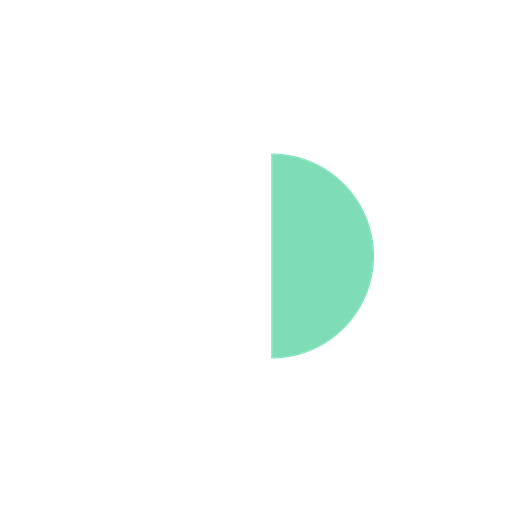
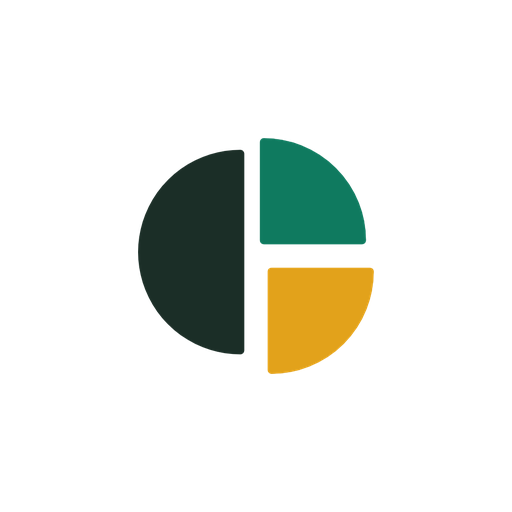
Refactor code structure for improved readability and maintainability

Changed region(s): [[0.25, 0.25, 0.75, 0.75]]

diff --git a/mobile/src/ui/Logo.tsx b/mobile/src/ui/Logo.tsx
@@ -1,35 +1,20 @@
-import { View } from 'react-native';
-import Svg, { Path, Rect } from 'react-native-svg';
+import { Image, View } from 'react-native';
 
-import { Text } from '@/components/ui/text';
 import { cn } from '@/lib/utils';
 
-import { colors } from './theme';
-
-/**
- * Hati's mark: a coin split in two ("hati" means to split), white and mint, on a deep forest
- * tile. The same geometry is drawn into the app icons (mobile/assets, made by
- * scripts/make-icons.py), so change both together.
+/*
+ * Hati's logo: a circle split into three shares (ink, green, gold). The images are cut out of
+ * mobile/assets/app-icon.png and primary-logo.png by mobile/scripts/make-icons.py, which also
+ * makes the app icons; replace those two PNGs and rerun the script to change the logo everywhere.
  */
-export function LogoMark({ size = 56 }: { size?: number }) {
-  return (
-    <Svg width={size} height={size} viewBox="0 0 100 100" accessibilityElementsHidden importantForAccessibility="no">
-      <Rect width={100} height={100} rx={28} fill={colors.ink} />
-      {/* Left half of the coin, nudged left; right half nudged right: the split. */}
-      <Path d="M46 24 A26 26 0 0 0 46 76 Z" fill={colors.onInk} />
-      <Path d="M54 24 A26 26 0 0 1 54 76 Z" fill={colors.onInkGood} />
-    </Svg>
-  );
-}
+const WORDMARK = require('../../assets/logo-wordmark.png');
+const WORDMARK_RATIO = 399 / 144; // width / height of logo-wordmark.png
 
-/** The mark with the name next to it, for headers (intro, sign in). Read as "Hati". */
+/** The mark with "Hati" next to it, `size` tall, for headers. Read as "Hati". */
 export function Logo({ size = 32, className }: { size?: number; className?: string }) {
   return (
-    <View accessible accessibilityRole="image" accessibilityLabel="Hati" className={cn('flex-row items-center gap-2', className)}>
-      <LogoMark size={size} />
-      <Text className="font-extrabold tracking-tight text-foreground" style={{ fontSize: Math.round(size * 0.62) }}>
-        Hati
-      </Text>
+    <View accessible accessibilityRole="image" accessibilityLabel="Hati" className={cn('self-start', className)}>
+      <Image source={WORDMARK} style={{ height: size, width: size * WORDMARK_RATIO }} resizeMode="contain" />
     </View>
   );
 }

diff --git a/mobile/src/ui/auth.tsx b/mobile/src/ui/auth.tsx
@@ -9,7 +9,7 @@ import { Text } from '@/components/ui/text';
 import { passwordChecks } from '@/lib/auth';
 
 import { Card, cx, Muted, Screen, useRevealOnFocus } from './components';
-import { LogoMark } from './Logo';
+import { Logo } from './Logo';
 import { colors } from './theme';
 
 /** Brand mark, big title and subtitle, then the form in a card, then the footer links. */
@@ -27,7 +27,7 @@ export function AuthScreen({
   return (
     <Screen>
       <View className="gap-5 pb-1 pt-4">
-        <LogoMark size={56} />
+        <Logo size={44} />
         <View className="gap-2">
           <Text role="heading" className="text-3xl font-extrabold tracking-tight">
             {title}

diff --git a/mobile/scripts/make-icons.py b/mobile/scripts/make-icons.py
@@ -1,54 +1,102 @@
-"""Draws Hati's app icons into mobile/assets from the logo geometry in src/ui/Logo.tsx.
+"""Builds Hati's app icons and in-app logo images from the two source PNGs in mobile/assets:
 
-The mark: a coin split in two (white + mint) on a deep forest tile. Run after changing it:
+    app-icon.png      1024x1024, the mark on the sage background (#EDF1EE)
+    primary-logo.png  the mark + "Hati" + tagline on the same background
+
+Run after replacing either source:
 
     backend/.venv/Scripts/python mobile/scripts/make-icons.py      (Windows)
     backend/.venv/bin/python mobile/scripts/make-icons.py          (macOS / Linux)
 
 Needs Pillow (already in backend/requirements.txt).
+
+The cut-outs (logo-*.png) are "un-matted": every pixel is matched to the nearest logo color and
+given the alpha that blends it out of the background, so edges stay smooth on any surface.
 """
 
 from pathlib import Path
 
-from PIL import Image, ImageDraw
+from PIL import Image
 
 ASSETS = Path(__file__).resolve().parent.parent / "assets"
-INK = (0x1B, 0x2E, 0x27, 255)  # colors.ink
-WHITE = (255, 255, 255, 255)  # colors.onInk
-MINT = (0x7E, 0xDD, 0xB6, 255)  # colors.onInkGood
-CLEAR = (0, 0, 0, 0)
-SS = 4  # draw 4x bigger, then shrink: smooth edges
+BG = (237, 241, 238)  # sage, colors.bg
+# The colors used in the artwork: ink, green, gold, and the tagline's grey.
+INKS = [(27, 46, 39), (15, 122, 95), (226, 162, 27), (74, 93, 85)]
 
 
-def coin(draw, size, radius, gap, left=WHITE, right=MINT):
-    """Two half discs around the centre, pulled apart by `gap` (fractions of size)."""
-    c, r, g = size / 2, radius * size, gap * size
-    draw.pieslice([c - g - r, c - r, c - g + r, c + r], 90, 270, fill=left)
-    draw.pieslice([c + g - r, c - r, c + g + r, c + r], 270, 90, fill=right)
+def unmatte(img):
+    """Background pixels become transparent; artwork keeps its color with a soft alpha edge."""
+    src = img.convert("RGB")
+    out = Image.new("RGBA", src.size)
+    cache = {}
+    pixels = []
+    for p in src.get_flattened_data() if hasattr(src, "get_flattened_data") else src.getdata():
+        if p not in cache:
+            best = (float("inf"), (0, 0, 0, 0))
+            for f in INKS:
+                d = [f[i] - BG[i] for i in range(3)]
+                v = [p[i] - BG[i] for i in range(3)]
+                a = max(0.0, min(1.0, sum(v[i] * d[i] for i in range(3)) / sum(x * x for x in d)))
+                resid = sum((p[i] - (BG[i] + a * d[i])) ** 2 for i in range(3))
+                if resid < best[0]:
+                    best = (resid, (*f, round(a * 255)))
+            cache[p] = best[1]
+        pixels.append(cache[p])
+    out.putdata(pixels)
+    return out
 
 
-def make(name, size, background, radius, gap, tile_corner=None, colors=(WHITE, MINT), mode="RGBA"):
-    big = size * SS
-    im = Image.new("RGBA", (big, big), CLEAR)
-    d = ImageDraw.Draw(im)
-    if background and tile_corner is None:
-        d.rectangle([0, 0, big, big], fill=background)
-    elif background:
-        d.rounded_rectangle([0, 0, big - 1, big - 1], radius=tile_corner * big, fill=background)
-    if radius:
-        coin(d, big, radius, gap, *colors)
-    im = im.resize((size, size), Image.LANCZOS)
-    if mode == "RGB":
-        im = im.convert("RGB")
-    im.save(ASSETS / name)
-    print("wrote", name, im.size)
+def trim(img, pad=0):
+    box = img.getchannel("A").point(lambda a: 255 if a > 8 else 0).getbbox()
+    img = img.crop(box)
+    if pad:
+        w, h = img.size
+        canvas = Image.new("RGBA", (w + 2 * pad, h + 2 * pad), (0, 0, 0, 0))
+        canvas.paste(img, (pad, pad))
+        img = canvas
+    return img
 
 
-# Same proportions as the SVG (viewBox 100): coin radius 26, halves 4 apart from the centre.
-make("icon.png", 1024, INK, 0.26, 0.04, mode="RGB")  # iOS: full square, the system rounds it
-# Android adaptive icon: the launcher crops to the middle ~66%, so the coin stays inside that.
-make("android-icon-background.png", 512, INK, 0, 0)
-make("android-icon-foreground.png", 512, None, 0.2, 0.03)
-make("android-icon-monochrome.png", 432, None, 0.2, 0.03, colors=(WHITE, WHITE))
-make("splash-icon.png", 1024, INK, 0.26, 0.04, tile_corner=0.28)
-make("favicon.png", 48, INK, 0.26, 0.04, tile_corner=0.28)
+def square(img, size, fill, scale):
+    """`img` centred on a size x size canvas, its longest side `scale` of the canvas."""
+    canvas = Image.new("RGBA", (size, size), fill)
+    w, h = img.size
+    k = size * scale / max(w, h)
+    art = img.resize((round(w * k), round(h * k)), Image.LANCZOS)
+    canvas.alpha_composite(art, ((size - art.width) // 2, (size - art.height) // 2))
+    return canvas
+
+
+def save(img, name, mode=None):
+    if mode:
+        img = img.convert(mode)
+    img.save(ASSETS / name, optimize=True)
+    print("wrote", name, img.size)
+
+
+icon_src = Image.open(ASSETS / "app-icon.png")
+logo_src = Image.open(ASSETS / "primary-logo.png")
+
+mark = trim(unmatte(icon_src))
+full = trim(unmatte(logo_src))
+# The wordmark without the tagline: clear the area under "Hati", right of the mark.
+no_tag = unmatte(logo_src)
+W, H = no_tag.size
+no_tag.paste((0, 0, 0, 0), (round(W * 0.44), round(H * 0.58), W, H))  # tagline: x > 44%, y > 58%
+wordmark = trim(no_tag)
+
+# In-app logo (src/ui/Logo.tsx): 3x a typical size, so they're sharp on every phone.
+save(square(mark, 288, (0, 0, 0, 0), 1.0), "logo-mark.png")
+save(wordmark.resize((round(wordmark.width * 144 / wordmark.height), 144), Image.LANCZOS), "logo-wordmark.png")
+save(full.resize((round(full.width * 240 / full.height), 240), Image.LANCZOS), "logo-full.png")
+
+# App icons.
+save(square(mark, 1024, (*BG, 255), 0.56), "icon.png", "RGB")  # iOS rounds the corners itself
+# Android adaptive icon: the launcher shows roughly the middle 66%, so the mark stays inside it.
+save(Image.new("RGBA", (512, 512), (*BG, 255)), "android-icon-background.png")
+save(square(mark, 512, (0, 0, 0, 0), 0.46), "android-icon-foreground.png")
+mono = square(mark, 432, (0, 0, 0, 0), 0.46)
+mono.putdata([(255, 255, 255, px[3]) for px in mono.getdata()])
+save(mono, "android-icon-monochrome.png")
+save(square(mark, 1024, (0, 0, 0, 0), 0.6), "splash-icon.png")
+save(square(mark, 48, (*BG, 255), 0.7), "favicon.png")

diff --git a/CLAUDE.md b/CLAUDE.md
@@ -47,7 +47,7 @@ The phone's SQLite database is the source of truth for the UI. Screens never cal
 
 ### Navigation
 
-`src/app/(tabs)/` holds the four main screens behind a light floating tab bar (`src/ui/FloatingTabBar.tsx`, icons only, with a Reanimated pill that slides to the current tab and a raised + button in its middle that adds an expense from any tab (drawn inside a taller container, not overflowing the bar, because Android ignores taps outside a view's parent) via `src/ui/useAddExpense.ts` and `app/choose-budget.tsx`): Home (`index`, the dashboard: getting-started checklist, credit overview, `WeekChart`, budgets, upcoming events, recent expenses), Expenses, Events and Profile. With no token, the tabs layout redirects to `/onboarding` (three intro slides, shown once per phone; the flag is in SecureStore via `lib/onboarding.ts`, so sign-out doesn't reset it) or to `/login`. Tab screens have no navigation header. They use `<Screen tab>` (safe-area padding plus `TAB_BAR_SPACE` so the bar never covers content) and `<TabHeader>`. Transitions: tabs `animation: 'shift'`, pushed screens `'ios_from_right'`, creation modals `'slide_from_bottom'`, intro/sign-in/home `'fade'`; all become `'none'` when Reanimated's `useReducedMotion()` is true. Expenses and Events show every budget and take `?group=<id>` as a filter; the budget page links to them with `router.navigate({ pathname: '/expenses', params: { group: id } })`. New budgets are created in `app/new-budget.tsx` (a native `formSheet`, like `app/new-event.tsx`: both use the `sheet` options in the root layout, detents `[0.8, 1]`, `sheetCornerRadius: 20`, and no navigation header because Android sheets don't render one, so they draw `<SheetHeader>` from `src/ui/SheetHeader.tsx`; opened from Home's Budgets section, the getting-started checklist, the budget picker, and the + button when there's no budget yet). Budget, person, expense-detail (`expense/[expenseId]`, opened by tapping any `ExpenseRow`) and creation screens are stack routes in `src/app/group/[id]/` that open above the tabs. Expense rows, event cards and the budget filter live in `src/ui/rows.tsx`, so every list looks the same. **Guided tour:** `src/ui/Tour.tsx` (`<TourHost />` in the root layout) opens each step's page (`route` in `STEPS`), waits for the tab transition, then spotlights the first visible control marked with `ref={tourTarget('id')}` from the step's `targets` (Home's `new-budget`, `add` (the +), `bell`; `expenses-summary`, `new-event`, `profile-photo`; tab icons `tab-<route>` as fallbacks). Positions are measured relative to the overlay, not the window, because Android window coordinates can be off by the status bar. Home starts it once per account on each phone (`startTourIfNew(username)`, flag `hati.toured.<username>` in SecureStore via `lib/tour.ts`) and Profile → App replays it. If you rename or remove a marked control, update `STEPS`; a missing or off-screen target falls back to a centered card. **Logo:** `src/ui/Logo.tsx` (`LogoMark`, `Logo`, react-native-svg); the app icons in `mobile/assets` are drawn from the same geometry by `mobile/scripts/make-icons.py` (run it with the backend venv's Python, which has Pillow).
+`src/app/(tabs)/` holds the four main screens behind a light floating tab bar (`src/ui/FloatingTabBar.tsx`, icons only, with a Reanimated pill that slides to the current tab and a raised + button in its middle that adds an expense from any tab (drawn inside a taller container, not overflowing the bar, because Android ignores taps outside a view's parent) via `src/ui/useAddExpense.ts` and `app/choose-budget.tsx`): Home (`index`, the dashboard: getting-started checklist, credit overview, `WeekChart`, budgets, upcoming events, recent expenses), Expenses, Events and Profile. With no token, the tabs layout redirects to `/onboarding` (three intro slides, shown once per phone; the flag is in SecureStore via `lib/onboarding.ts`, so sign-out doesn't reset it) or to `/login`. Tab screens have no navigation header. They use `<Screen tab>` (safe-area padding plus `TAB_BAR_SPACE` so the bar never covers content) and `<TabHeader>`. Transitions: tabs `animation: 'shift'`, pushed screens `'ios_from_right'`, creation modals `'slide_from_bottom'`, intro/sign-in/home `'fade'`; all become `'none'` when Reanimated's `useReducedMotion()` is true. Expenses and Events show every budget and take `?group=<id>` as a filter; the budget page links to them with `router.navigate({ pathname: '/expenses', params: { group: id } })`. New budgets are created in `app/new-budget.tsx` (a native `formSheet`, like `app/new-event.tsx`: both use the `sheet` options in the root layout, detents `[0.8, 1]`, `sheetCornerRadius: 20`, and no navigation header because Android sheets don't render one, so they draw `<SheetHeader>` from `src/ui/SheetHeader.tsx`; opened from Home's Budgets section, the getting-started checklist, the budget picker, and the + button when there's no budget yet). Budget, person, expense-detail (`expense/[expenseId]`, opened by tapping any `ExpenseRow`) and creation screens are stack routes in `src/app/group/[id]/` that open above the tabs. Expense rows, event cards and the budget filter live in `src/ui/rows.tsx`, so every list looks the same. **Guided tour:** `src/ui/Tour.tsx` (`<TourHost />` in the root layout) opens each step's page (`route` in `STEPS`), waits for the tab transition, then spotlights the first visible control marked with `ref={tourTarget('id')}` from the step's `targets` (Home's `new-budget`, `add` (the +), `bell`; `expenses-summary`, `new-event`, `profile-photo`; tab icons `tab-<route>` as fallbacks). Positions are measured relative to the overlay, not the window, because Android window coordinates can be off by the status bar. Home starts it once per account on each phone (`startTourIfNew(username)`, flag `hati.toured.<username>` in SecureStore via `lib/tour.ts`) and Profile → App replays it. If you rename or remove a marked control, update `STEPS`; a missing or off-screen target falls back to a centered card. **Logo:** the sources are `mobile/assets/app-icon.png` (the mark) and `primary-logo.png` (mark + "Hati" + tagline), both on the sage background. `mobile/scripts/make-icons.py` (run with the backend venv's Python, which has Pillow) cuts them out into transparent `logo-wordmark.png` / `logo-mark.png` / `logo-full.png` and draws every app icon (`icon.png`, Android adaptive + monochrome, splash, favicon). In the app, `<Logo size>` (`src/ui/Logo.tsx`) shows the wordmark; if you regenerate it at a new shape, update `WORDMARK_RATIO`.
 
 ### Invariants that span both sides
 
